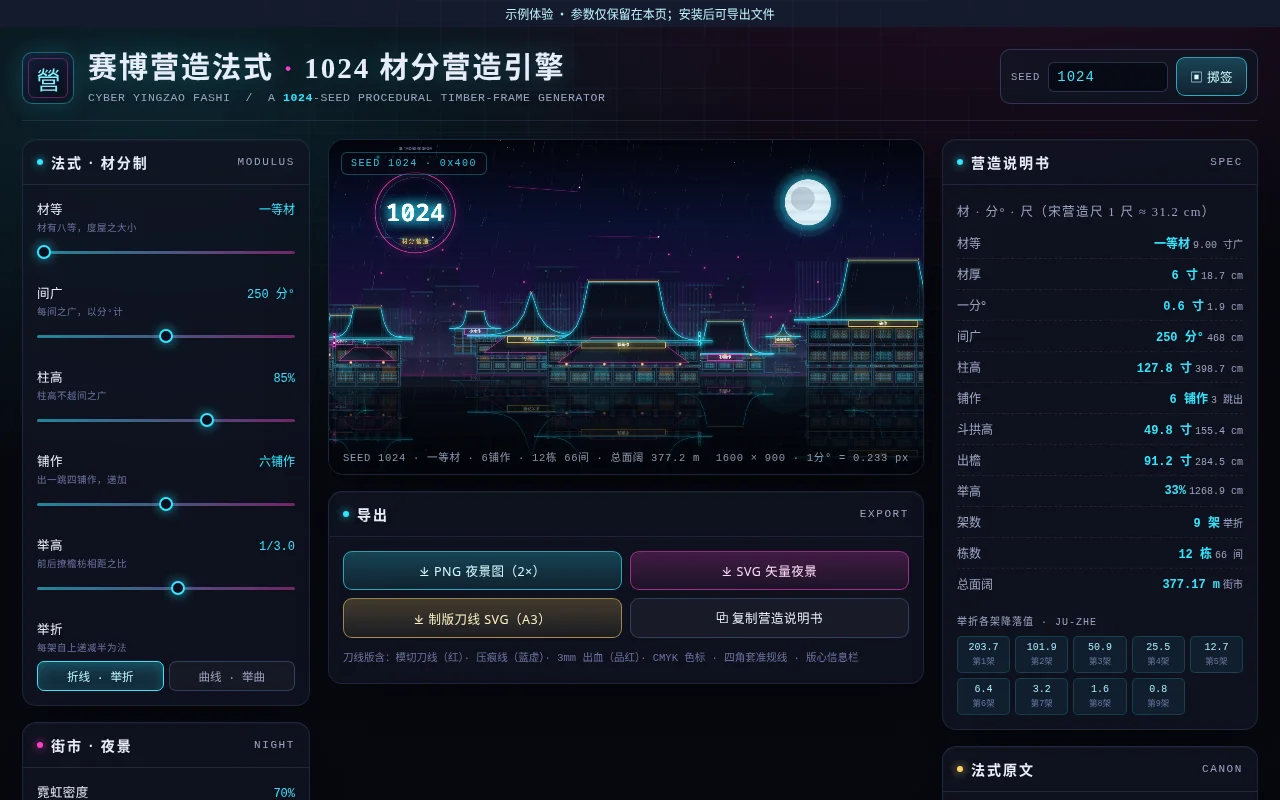
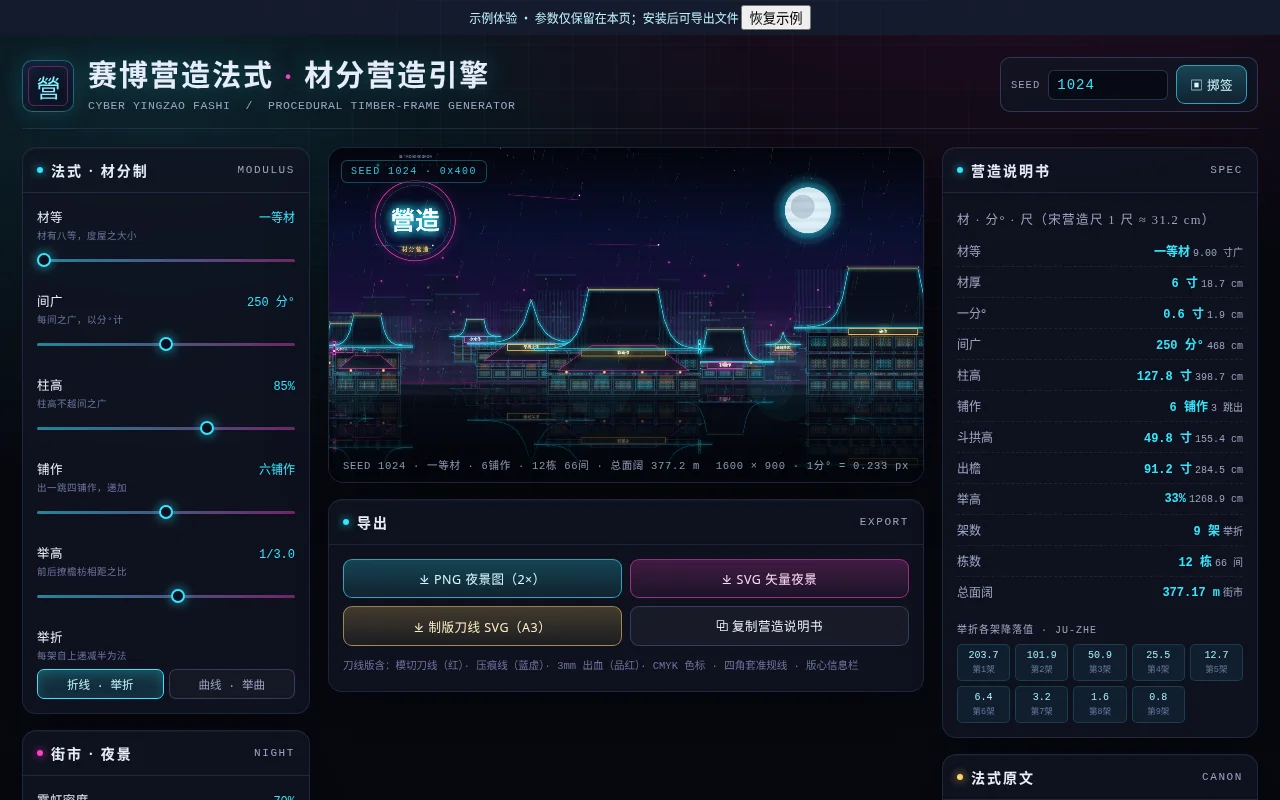
Remove event branding and correct reset state

diff --git a/ba7ad1e8d11afa5ff66995b0/app.js b/ba7ad1e8d11afa5ff66995b0/app.js
@@ -1,10 +1,10 @@
-document.title = "赛博营造法式 · 1024 材分营造引擎";
+document.title = "赛博营造法式 · 材分营造引擎";
 const style = document.createElement("style"); style.textContent = "\n:root{\n  --bg:#07080f;\n  --bg2:#0c0e1a;\n  --panel:rgba(16,19,34,.82);\n  --panel-2:rgba(22,26,44,.7);\n  --line:rgba(120,150,220,.16);\n  --line-2:rgba(120,150,220,.30);\n  --txt:#e8ecf8;\n  --txt-dim:#9aa4c4;\n  --txt-faint:#6b74a0;\n  --cyan:#31e6ff;\n  --magenta:#ff3ec8;\n  --gold:#ffd166;\n  --ink:#101426;\n  --mono:ui-monospace,\"SFMono-Regular\",\"JetBrains Mono\",\"Cascadia Mono\",Menlo,Consolas,\"Liberation Mono\",monospace;\n  --serif:\"Noto Serif SC\",\"Source Han Serif SC\",\"Songti SC\",\"STSong\",SimSun,\"Times New Roman\",serif;\n  --sans:\"PingFang SC\",\"Microsoft YaHei\",\"Hiragino Sans GB\",\"Noto Sans SC\",system-ui,-apple-system,\"Segoe UI\",sans-serif;\n}\n*{box-sizing:border-box}\nhtml,body{margin:0;padding:0}\nbody{\n  background:\n    radial-gradient(1200px 700px at 78% -10%,rgba(255,62,200,.13),transparent 60%),\n    radial-gradient(1000px 600px at 12% 8%,rgba(49,230,255,.12),transparent 62%),\n    var(--bg);\n  color:var(--txt);\n  font-family:var(--sans);\n  -webkit-font-smoothing:antialiased;\n  min-height:100vh;\n  overflow-x:hidden;\n}\nbody::before{\n  content:\"\";position:fixed;inset:0;pointer-events:none;z-index:0;\n  background-image:linear-gradient(rgba(120,160,255,.045) 1px,transparent 1px),linear-gradient(90deg,rgba(120,160,255,.045) 1px,transparent 1px);\n  background-size:44px 44px;\n  mask-image:radial-gradient(1000px 700px at 50% 30%,#000 20%,transparent 85%);\n}\n.app{position:relative;z-index:1;max-width:1680px;margin:0 auto;padding:22px 22px 40px}\n\n/* ---------- header ---------- */\n.topbar{display:flex;align-items:flex-end;gap:20px;flex-wrap:wrap;padding-bottom:16px;border-bottom:1px solid var(--line)}\n.brand{display:flex;align-items:center;gap:14px;min-width:0}\n.seal{\n  width:52px;height:52px;flex:none;border-radius:10px;position:relative;\n  background:linear-gradient(160deg,#141a33,#0a0d1a);\n  border:1px solid rgba(49,230,255,.4);\n  box-shadow:0 0 22px rgba(49,230,255,.18),inset 0 0 18px rgba(49,230,255,.08);\n  display:grid;place-items:center;font-family:var(--serif);font-size:24px;color:#7ff3ff;letter-spacing:-1px;\n}\n.seal::after{content:\"\";position:absolute;inset:5px;border:1px solid rgba(255,62,200,.35);border-radius:6px}\n.brand h1{\n  margin:0;font-family:var(--serif);font-size:clamp(20px,2.4vw,29px);font-weight:700;letter-spacing:2px;line-height:1.15;\n  text-shadow:0 0 26px rgba(49,230,255,.28);\n}\n.brand h1 em{font-style:normal;color:var(--magenta);text-shadow:0 0 22px rgba(255,62,200,.5)}\n.brand .sub{margin-top:5px;font-family:var(--mono);font-size:11.5px;color:var(--txt-dim);letter-spacing:.6px}\n.brand .sub b{color:var(--cyan);font-weight:600}\n.topbar .spacer{flex:1}\n.seedbox{display:flex;align-items:center;gap:8px;background:var(--panel);border:1px solid var(--line-2);border-radius:10px;padding:7px 10px}\n.seedbox label{font-family:var(--mono);font-size:10.5px;color:var(--txt-dim);letter-spacing:1px}\n.seedbox input{\n  width:120px;background:#070a14;border:1px solid var(--line-2);color:var(--cyan);\n  font-family:var(--mono);font-size:14px;padding:6px 8px;border-radius:6px;outline:none;letter-spacing:1px;\n}\n.seedbox input:focus{border-color:var(--cyan);box-shadow:0 0 0 3px rgba(49,230,255,.12)}\n\n/* ---------- layout ---------- */\n.main{display:grid;grid-template-columns:288px minmax(0,1fr) 316px;gap:18px;margin-top:18px;align-items:start}\n.panel{\n  background:var(--panel);border:1px solid var(--line);border-radius:14px;\n  backdrop-filter:blur(10px);-webkit-backdrop-filter:blur(10px);\n  box-shadow:0 18px 40px -28px rgba(0,0,0,.9),inset 0 1px 0 rgba(255,255,255,.04);\n  overflow:hidden;\n}\n.panel + .panel{margin-top:16px}\n.panel-h{\n  display:flex;align-items:center;gap:8px;padding:12px 14px;border-bottom:1px solid var(--line);\n  font-family:var(--mono);font-size:11px;letter-spacing:1.6px;color:var(--txt-dim);text-transform:uppercase;\n}\n.panel-h .zh{font-family:var(--serif);font-size:14px;letter-spacing:2px;color:var(--txt);text-transform:none;font-weight:700}\n.panel-h .dot{width:6px;height:6px;border-radius:50%;background:var(--cyan);box-shadow:0 0 10px var(--cyan);flex:none}\n.panel-b{padding:14px}\n\n/* ---------- controls ---------- */\n.ctl{margin-bottom:15px}\n.ctl:last-child{margin-bottom:0}\n.ctl .row{display:flex;justify-content:space-between;align-items:baseline;gap:8px;margin-bottom:7px}\n.ctl .nm{font-size:12.5px;color:var(--txt);letter-spacing:.4px}\n.ctl .nm small{display:block;font-family:var(--mono);font-size:9.5px;color:var(--txt-faint);letter-spacing:.5px;margin-top:2px}\n.ctl .vl{font-family:var(--mono);font-size:12px;color:var(--cyan);white-space:nowrap}\ninput[type=range]{\n  -webkit-appearance:none;appearance:none;width:100%;height:22px;background:transparent;outline:none;cursor:pointer;margin:0;\n}\ninput[type=range]::-webkit-slider-runnable-track{height:3px;border-radius:3px;background:linear-gradient(90deg,rgba(49,230,255,.55),rgba(255,62,200,.42))}\ninput[type=range]::-webkit-slider-thumb{\n  -webkit-appearance:none;width:14px;height:14px;border-radius:50%;margin-top:-5.5px;\n  background:#0b1020;border:2px solid var(--cyan);box-shadow:0 0 12px rgba(49,230,255,.7);transition:transform .12s;\n}\ninput[type=range]:active::-webkit-slider-thumb{transform:scale(1.22)}\ninput[type=range]::-moz-range-track{height:3px;border-radius:3px;background:rgba(49,230,255,.5)}\ninput[type=range]::-moz-range-thumb{width:12px;height:12px;border-radius:50%;background:#0b1020;border:2px solid var(--cyan);box-shadow:0 0 10px rgba(49,230,255,.6)}\n.seg{display:flex;gap:5px;flex-wrap:wrap}\n.seg button{\n  flex:1 1 auto;min-width:34px;padding:6px 4px;border-radius:7px;cursor:pointer;\n  background:rgba(255,255,255,.03);border:1px solid var(--line-2);color:var(--txt-dim);\n  font-family:var(--mono);font-size:11.5px;transition:all .15s;\n}\n.seg button:hover{border-color:rgba(49,230,255,.5);color:var(--txt)}\n.seg button.on{background:linear-gradient(180deg,rgba(49,230,255,.22),rgba(49,230,255,.07));border-color:var(--cyan);color:#bff6ff;box-shadow:0 0 14px rgba(49,230,255,.2) inset}\n.chips{display:grid;grid-template-columns:1fr 1fr;gap:6px}\n.chips button{\n  padding:7px 6px;border-radius:8px;cursor:pointer;text-align:left;\n  background:rgba(255,255,255,.03);border:1px solid var(--line-2);color:var(--txt-dim);\n  font-size:11.5px;transition:all .15s;font-family:var(--sans);\n}\n.chips button:hover{border-color:rgba(255,62,200,.45);color:var(--txt)}\n.chips button.on{border-color:var(--magenta);color:#ffd7f4;background:linear-gradient(180deg,rgba(255,62,200,.2),rgba(255,62,200,.05))}\n.chips button span{display:block;font-family:var(--mono);font-size:9px;opacity:.65;margin-top:2px}\n\n.btn{\n  display:inline-flex;align-items:center;justify-content:center;gap:7px;\n  padding:9px 13px;border-radius:9px;cursor:pointer;font-size:12.5px;letter-spacing:.5px;\n  background:rgba(255,255,255,.04);border:1px solid var(--line-2);color:var(--txt);\n  transition:all .15s;font-family:var(--sans);\n}\n.btn:hover{border-color:var(--cyan);color:#cffaff;box-shadow:0 0 16px -4px rgba(49,230,255,.5)}\n.btn.primary{background:linear-gradient(180deg,rgba(49,230,255,.24),rgba(49,230,255,.08));border-color:rgba(49,230,255,.65);color:#d6fbff}\n.btn.gold{background:linear-gradient(180deg,rgba(255,209,102,.22),rgba(255,209,102,.06));border-color:rgba(255,209,102,.55);color:#ffeec2}\n.btn.mag{background:linear-gradient(180deg,rgba(255,62,200,.22),rgba(255,62,200,.06));border-color:rgba(255,62,200,.55);color:#ffd9f4}\n.btn:active{transform:translateY(1px)}\n.btn:disabled{opacity:.45;cursor:not-allowed}\n.btns{display:grid;grid-template-columns:1fr 1fr;gap:8px}\n.btns .btn{width:100%}\n\n/* ---------- stage ---------- */\n.stage{\n  position:relative;border-radius:16px;overflow:hidden;\n  border:1px solid rgba(120,150,220,.22);\n  box-shadow:0 30px 70px -40px #000,0 0 0 1px rgba(0,0,0,.4) inset;\n  background:#05060c;\n}\n.stage canvas{display:block;width:100%;height:auto;aspect-ratio:16/9}\n.stage .hud{\n  position:absolute;left:0;right:0;bottom:0;display:flex;justify-content:space-between;align-items:center;gap:12px;\n  padding:10px 14px;font-family:var(--mono);font-size:10.5px;color:rgba(190,205,235,.72);letter-spacing:.7px;\n  background:linear-gradient(0deg,rgba(4,6,12,.86),transparent);pointer-events:none;\n}\n.stage .hud .r{display:flex;gap:14px;flex-wrap:wrap}\n.stage .badge{\n  position:absolute;top:12px;left:12px;font-family:var(--mono);font-size:10px;letter-spacing:1.4px;\n  color:rgba(49,230,255,.85);border:1px solid rgba(49,230,255,.3);background:rgba(6,10,20,.6);\n  padding:5px 9px;border-radius:6px;pointer-events:none;\n}\n.stage .loading{\n  position:absolute;inset:0;display:grid;place-items:center;background:rgba(5,6,12,.72);\n  font-family:var(--serif);letter-spacing:6px;color:#9ff0ff;font-size:15px;pointer-events:none;opacity:0;transition:opacity .25s;\n}\n.stage .loading.on{opacity:1}\n\n/* ---------- spec table ---------- */\n.spec{width:100%;border-collapse:collapse;font-size:12px}\n.spec caption{\n  caption-side:top;text-align:left;font-family:var(--serif);font-size:12.5px;letter-spacing:1.4px;\n  color:var(--txt-dim);padding:2px 0 8px;\n}\n.spec tr{border-bottom:1px dashed rgba(120,150,220,.13)}\n.spec tr:last-child{border-bottom:0}\n.spec th{\n  text-align:left;font-weight:400;color:var(--txt-dim);padding:6px 0;white-space:nowrap;\n}\n.spec td{text-align:right;font-family:var(--mono);color:var(--txt);padding:6px 0;white-space:nowrap}\n.spec td b{color:var(--cyan);font-weight:600}\n.spec td i{font-style:normal;color:var(--txt-dim);font-size:10px;margin-left:3px}\n.quote{\n  font-family:var(--serif);font-size:12px;line-height:1.85;color:#cbd4ef;\n  border-left:2px solid rgba(255,62,200,.5);padding:2px 0 2px 11px;margin:0;letter-spacing:.4px;\n}\n.quote b{color:var(--gold);font-weight:600}\n.jz{display:grid;grid-template-columns:repeat(auto-fill,minmax(52px,1fr));gap:5px;margin-top:8px}\n.jz div{\n  font-family:var(--mono);font-size:10px;text-align:center;padding:5px 2px;border-radius:5px;\n  background:rgba(49,230,255,.07);border:1px solid rgba(49,230,255,.16);color:#a9e9ff;\n}\n.jz div span{display:block;color:var(--txt-faint);font-size:8.5px;margin-top:1px}\n\n/* ---------- footer ---------- */\n.foot{\n  margin-top:20px;padding-top:16px;border-top:1px solid var(--line);\n  display:flex;justify-content:space-between;gap:16px;flex-wrap:wrap;\n  font-family:var(--mono);font-size:10.5px;color:var(--txt-faint);letter-spacing:.6px;line-height:1.9;\n}\n.foot b{color:var(--txt-dim);font-weight:500}\n.kbd{display:inline-block;padding:1px 6px;border:1px solid var(--line-2);border-radius:4px;color:var(--txt-dim);font-size:10px}\n\n/* ---------- toast ---------- */\n.toast{\n  position:fixed;left:50%;bottom:34px;transform:translate(-50%,20px);z-index:99;\n  background:rgba(10,14,26,.95);border:1px solid rgba(49,230,255,.4);color:#cffaff;\n  padding:11px 18px;border-radius:10px;font-size:12.5px;letter-spacing:.5px;\n  box-shadow:0 20px 40px -20px #000,0 0 24px -10px rgba(49,230,255,.6);\n  opacity:0;pointer-events:none;transition:all .28s cubic-bezier(.2,.8,.3,1);\n}\n.toast.on{opacity:1;transform:translate(-50%,0)}\n\n/* ---------- modal ---------- */\n.modal{\n  position:fixed;inset:0;z-index:120;display:none;place-items:center;padding:24px;\n  background:rgba(3,4,9,.78);backdrop-filter:blur(6px);-webkit-backdrop-filter:blur(6px);\n}\n.modal.on{display:grid}\n.modal .card{\n  width:min(720px,100%);max-height:82vh;overflow:auto;background:var(--bg2);\n  border:1px solid var(--line-2);border-radius:14px;padding:22px 24px;\n  box-shadow:0 40px 90px -40px #000;\n}\n.modal .card h3{margin:0 0 4px;font-family:var(--serif);font-size:19px;letter-spacing:2px}\n.modal .card .lead{margin:0 0 14px;font-family:var(--mono);font-size:11px;color:var(--txt-dim);letter-spacing:.8px}\n.modal .card h4{margin:18px 0 7px;font-family:var(--serif);font-size:14px;letter-spacing:1.5px;color:var(--cyan)}\n.modal .card p,.modal .card li{font-size:13px;line-height:1.95;color:#d3daf0;margin:6px 0}\n.modal .card ul{padding-left:19px;margin:6px 0}\n.modal .card code{font-family:var(--mono);font-size:11.5px;background:rgba(49,230,255,.09);padding:1px 5px;border-radius:4px;color:#9fe9ff}\n.modal .card .close{margin-top:20px;width:100%}\n\n@media (max-width:1240px){\n  .main{grid-template-columns:1fr}\n  .panel.side{max-width:none}\n  .stage{order:-1}\n  .chips{grid-template-columns:repeat(auto-fill,minmax(120px,1fr))}\n}\n@media (max-width:640px){\n  .app{padding:14px 12px 30px}\n  .main{gap:14px}\n  .btns{grid-template-columns:1fr}\n  .seal{width:44px;height:44px;font-size:20px}\n}\n"; document.head.appendChild(style);
-document.body.innerHTML = "\n<div class=\"app\">\n\n  <header class=\"topbar\">\n    <div class=\"brand\">\n      <div class=\"seal\">營</div>\n      <div>\n        <h1>赛博营造法式 <em>·</em> 1024 材分营造引擎</h1>\n        <div class=\"sub\">CYBER YINGZAO FASHI &nbsp;/&nbsp; A <b>1024</b>-SEED PROCEDURAL TIMBER-FRAME GENERATOR</div>\n      </div>\n    </div>\n    <div class=\"spacer\"></div>\n    <div class=\"seedbox\">\n      <label for=\"seed\">SEED</label>\n      <input id=\"seed\" inputmode=\"numeric\" spellcheck=\"false\" type=\"text\" value=\"1024\">\n      <button class=\"btn primary\" id=\"btn-dice\" title=\"换一个种子（空格键）\">▣ 掷签</button>\n    </div>\n  </header>\n\n  <div class=\"main\">\n\n    <!-- ================= 左：参数 ================= -->\n    <div class=\"side\">\n      <section class=\"panel\">\n        <div class=\"panel-h\"><span class=\"dot\"></span><span class=\"zh\">法式 · 材分制</span><span style=\"margin-left:auto\">MODULUS</span></div>\n        <div class=\"panel-b\">\n          <div class=\"ctl\">\n            <div class=\"row\"><div class=\"nm\">材等<small>材有八等，度屋之大小</small></div><div class=\"vl\" id=\"v-cai\">一等材</div></div>\n            <input id=\"r-cai\" max=\"8\" min=\"1\" step=\"1\" type=\"range\" value=\"1\">\n          </div>\n          <div class=\"ctl\">\n            <div class=\"row\"><div class=\"nm\">间广<small>每间之广，以分°计</small></div><div class=\"vl\" id=\"v-jian\">250 分°</div></div>\n            <input id=\"r-jian\" max=\"320\" min=\"180\" step=\"5\" type=\"range\" value=\"250\">\n          </div>\n          <div class=\"ctl\">\n            <div class=\"row\"><div class=\"nm\">柱高<small>柱高不越间之广</small></div><div class=\"vl\" id=\"v-col\">85%</div></div>\n            <input id=\"r-col\" max=\"100\" min=\"55\" step=\"1\" type=\"range\" value=\"85\">\n          </div>\n          <div class=\"ctl\">\n            <div class=\"row\"><div class=\"nm\">铺作<small>出一跳四铺作，递加</small></div><div class=\"vl\" id=\"v-pu\">六铺作</div></div>\n            <input id=\"r-pu\" max=\"8\" min=\"4\" step=\"1\" type=\"range\" value=\"6\">\n          </div>\n          <div class=\"ctl\">\n            <div class=\"row\"><div class=\"nm\">举高<small>前后撩檐枋相距之比</small></div><div class=\"vl\" id=\"v-ju\">1/3</div></div>\n            <input id=\"r-ju\" max=\"42\" min=\"22\" step=\"1\" type=\"range\" value=\"33\">\n          </div>\n          <div class=\"ctl\">\n            <div class=\"row\"><div class=\"nm\">举折<small>每架自上递减半为法</small></div></div>\n            <div class=\"seg\" id=\"seg-smooth\">\n              <button class=\"on\" data-v=\"0\">折线 · 举折</button>\n              <button data-v=\"1\">曲线 · 举曲</button>\n            </div>\n          </div>\n        </div>\n      </section>\n\n      <section class=\"panel\">\n        <div class=\"panel-h\"><span class=\"dot\" style=\"background:var(--magenta); box-shadow:0 0 10px var(--magenta)\"></span><span class=\"zh\">街市 · 夜景</span><span style=\"margin-left:auto\">NIGHT</span></div>\n        <div class=\"panel-b\">\n          <div class=\"ctl\">\n            <div class=\"row\"><div class=\"nm\">霓虹密度</div><div class=\"vl\" id=\"v-neon\">70%</div></div>\n            <input id=\"r-neon\" max=\"100\" min=\"0\" step=\"1\" type=\"range\" value=\"70\">\n          </div>\n          <div class=\"ctl\">\n            <div class=\"row\"><div class=\"nm\">雨</div><div class=\"vl\" id=\"v-rain\">55%</div></div>\n            <input id=\"r-rain\" max=\"100\" min=\"0\" step=\"1\" type=\"range\" value=\"55\">\n          </div>\n          <div class=\"ctl\">\n            <div class=\"row\"><div class=\"nm\">雾气</div><div class=\"vl\" id=\"v-fog\">45%</div></div>\n            <input id=\"r-fog\" max=\"100\" min=\"0\" step=\"1\" type=\"range\" value=\"45\">\n          </div>\n          <div class=\"ctl\">\n            <div class=\"row\"><div class=\"nm\">地面积水反射</div><div class=\"vl\" id=\"v-refl\">60%</div></div>\n            <input id=\"r-refl\" max=\"100\" min=\"0\" step=\"1\" type=\"range\" value=\"60\">\n          </div>\n          <div class=\"ctl\">\n            <div class=\"row\"><div class=\"nm\">色调</div></div>\n            <div class=\"chips\" id=\"chips-pal\"></div>\n          </div>\n        </div>\n      </section>\n    </div>\n\n    <!-- ================= 中：画布 ================= -->\n    <div>\n      <div class=\"stage\">\n        <div class=\"badge\" id=\"badge\">SEED 1024 · 0x400</div>\n        <canvas height=\"900\" id=\"cv\" width=\"1600\"></canvas>\n        <div class=\"loading\" id=\"loading\">營 造 中</div>\n        <div class=\"hud\">\n          <div class=\"r\">\n            <span id=\"hud-l\">— 营造说明 —</span>\n          </div>\n          <div class=\"r\">\n            <span id=\"hud-r\">1600 × 900</span>\n          </div>\n        </div>\n      </div>\n\n      <section class=\"panel\" style=\"margin-top:16px\">\n        <div class=\"panel-h\"><span class=\"dot\"></span><span class=\"zh\">导出</span><span style=\"margin-left:auto\">EXPORT</span></div>\n        <div class=\"panel-b\">\n          <div class=\"btns\">\n            <button class=\"btn primary\" id=\"btn-png\">⤓ PNG 夜景图（2×）</button>\n            <button class=\"btn mag\" id=\"btn-svg\">⤓ SVG 矢量夜景</button>\n            <button class=\"btn gold\" id=\"btn-die\">⤓ 制版刀线 SVG（A3）</button>\n            <button class=\"btn\" id=\"btn-copy\">⧉ 复制营造说明书</button>\n          </div>\n          <div style=\"margin-top:11px; font-family:var(--mono); font-size:10.5px; color:var(--txt-faint); line-height:1.85\">\n            刀线版含：模切刀线（红）· 压痕线（蓝虚）· 3mm 出血（品红）· CMYK 色标 · 四角套准规线 · 版心信息栏\n          </div>\n        </div>\n      </section>\n    </div>\n\n    <!-- ================= 右：营造说明 ================= -->\n    <div class=\"side\">\n      <section class=\"panel\">\n        <div class=\"panel-h\"><span class=\"dot\"></span><span class=\"zh\">营造说明书</span><span style=\"margin-left:auto\">SPEC</span></div>\n        <div class=\"panel-b\">\n          <table class=\"spec\">\n            <caption>材 · 分° · 尺（宋营造尺 1 尺 ≈ 31.2 cm）</caption>\n            <tbody id=\"spec-body\"></tbody>\n          </table>\n          <div style=\"margin-top:14px\">\n            <div style=\"font-family:var(--mono); font-size:10px; color:var(--txt-dim); letter-spacing:1px; margin-bottom:6px\">举折各架降落值 · JU-ZHE</div>\n            <div class=\"jz\" id=\"jz\"></div>\n          </div>\n        </div>\n      </section>\n\n      <section class=\"panel\">\n        <div class=\"panel-h\"><span class=\"dot\" style=\"background:var(--gold); box-shadow:0 0 10px var(--gold)\"></span><span class=\"zh\">法式原文</span><span style=\"margin-left:auto\">CANON</span></div>\n        <div class=\"panel-b\">\n          <p class=\"quote\" id=\"quote\"></p>\n          <div class=\"btns\" style=\"margin-top:14px\">\n            <button class=\"btn\" id=\"btn-about\">✦ 作品说明</button>\n            <button class=\"btn\" id=\"btn-reset\">↺ 复原初始值</button>\n          </div>\n        </div>\n      </section>\n    </div>\n\n  </div>\n\n  <footer class=\"foot\">\n    <div>\n      <b>赛博营造法式 · 1024 材分营造引擎</b> &nbsp;— 以宋《营造法式》材分制为生成规则的程序化营造引擎<br>\n      快捷键：<span class=\"kbd\">空格</span> 掷签换种子 &nbsp;·&nbsp; <span class=\"kbd\">S</span> 存 PNG &nbsp;·&nbsp; <span class=\"kbd\">V</span> 存 SVG &nbsp;·&nbsp; <span class=\"kbd\">D</span> 出刀线版\n    </div>\n    <div style=\"text-align:right\">\n      单文件 · 零依赖 · 无外部资源 &nbsp;|&nbsp; 同一 SEED 恒定复现<br>\n      \n    </div>\n  </footer>\n</div>\n\n<div class=\"toast\" id=\"toast\"></div>\n\n<div class=\"modal\" id=\"modal\">\n  <div class=\"card\">\n    <h3>赛博营造法式 · 1024 材分营造引擎</h3>\n    <p class=\"lead\">CYBER YINGZAO FASHI — 以《营造法式》为规则的程序化营造引擎</p>\n\n    <h4>一、它是什么</h4>\n    <p>一个纯前端、零依赖的单文件应用。它不做\"国风滤镜\"，而是把北宋《营造法式》里真实存在的<b>模数体系</b>——材分八等、分°、铺作出跳、举折之法——直接写成生成规则，用一个种子（默认是 1024）确定性地推演出一整条赛博朋克霓虹夜景下的中式街市。</p>\n\n    <h4>二、生成规则来自真实的法式</h4>\n    <ul>\n      <li><b>材分八等</b>：「凡构屋之制，皆以材为祖。」材广十五分°、厚十分°；一等材广九寸厚六寸，八等材广四寸五分厚三寸。选哪一等，整条街的尺度随之等比缩放。</li>\n      <li><b>间广与柱高</b>：间广以分°计（默认二百五十分°）；「柱高不越间之广」，柱高按比例取间广的若干成。</li>\n      <li><b>铺作出跳</b>：出一跳谓之四铺作，出两跳五铺作……至八铺作。每跳向外三十分°、向高一材一栔（二十一分°），斗、拱、昂、耍头逐层累叠。</li>\n      <li><b>举折之法</b>：「以举高尺丈，每尺折一寸，每架自上递减半为法。」举高取前后撩檐枋相距的三分之一（可调），再自上而下逐架减半降落，归一化后得屋面折线——这正是中国屋顶\"反宇向阳\"那条凹曲线的数学来源。</li>\n      <li><b>窗棂样式</b>：步步锦、灯笼锦、冰裂纹（递归凸多边形半平面切分生成）。</li>\n    </ul>\n\n    <h4>三、技术要点</h4>\n    <ul>\n      <li><b>确定性生成</b>：mulberry32 伪随机数发生器，一种子一世界，<code>SEED 1024</code> 永远生成同一条街；每个建筑由种子派生子种子，互不干扰。</li>\n      <li><b>双渲染后端</b>：所有几何先编译成一份绘制指令流（DrawList），Canvas 2D 负责实时渲染与\"自下而上生长\"的营造动画，SVG 后端负责矢量导出——同一份几何，两种输出，像素与矢量严格一致。</li>\n      <li><b>真实湿地面反射</b>：建筑指令流整体做镜像变换重绘，叠加波纹扰动与纵向衰减遮罩。</li>\n      <li><b>刀线制版输出</b>：自动提取每栋楼的立面轮廓多边形，做多边形外扩求交得到 3mm 出血，按 A3 版面（420 × 297 mm）排出模切刀线、压痕线、CMYK 色标、四角套准规线与版心信息栏，输出可直接送厂的 SVG。</li>\n    </ul>\n\n    <h4>四、为什么它是\"造物\"而不只是一张图</h4>\n    <p>它输出的不是一张截图，而是<b>三样能继续往下走的东西</b>：一张 2× 分辨率的夜景图、一份可无限放大的矢量文件、以及一份能拿去印刷厂做实体包装盒的制版刀线。屏幕上的楼，可以被真正地造出来。</p>\n\n    <h4>五、如何使用</h4>\n    <ul>\n      <li>拖动左侧滑块调整材等、间广、柱高、铺作、举高，右侧\"营造说明书\"实时给出对应的宋尺换算与各架举折降落值。</li>\n      <li>按 <code>空格</code> 或点\"掷签\"换种子，整条街重新生成。</li>\n      <li><code>S</code> 存 PNG、<code>V</code> 存 SVG、<code>D</code> 出刀线版。</li>\n    </ul>\n\n    <button class=\"btn primary close\" id=\"modal-close\">知道了，开始营造</button>\n  </div>\n</div>\n\n";
+document.body.innerHTML = "\n<div class=\"app\">\n\n  <header class=\"topbar\">\n    <div class=\"brand\">\n      <div class=\"seal\">營</div>\n      <div>\n        <h1>赛博营造法式 <em>·</em> 材分营造引擎</h1>\n        <div class=\"sub\">CYBER YINGZAO FASHI &nbsp;/&nbsp; PROCEDURAL TIMBER-FRAME GENERATOR</div>\n      </div>\n    </div>\n    <div class=\"spacer\"></div>\n    <div class=\"seedbox\">\n      <label for=\"seed\">SEED</label>\n      <input id=\"seed\" inputmode=\"numeric\" spellcheck=\"false\" type=\"text\" value=\"1024\">\n      <button class=\"btn primary\" id=\"btn-dice\" title=\"换一个种子（空格键）\">▣ 掷签</button>\n    </div>\n  </header>\n\n  <div class=\"main\">\n\n    <!-- ================= 左：参数 ================= -->\n    <div class=\"side\">\n      <section class=\"panel\">\n        <div class=\"panel-h\"><span class=\"dot\"></span><span class=\"zh\">法式 · 材分制</span><span style=\"margin-left:auto\">MODULUS</span></div>\n        <div class=\"panel-b\">\n          <div class=\"ctl\">\n            <div class=\"row\"><div class=\"nm\">材等<small>材有八等，度屋之大小</small></div><div class=\"vl\" id=\"v-cai\">一等材</div></div>\n            <input id=\"r-cai\" max=\"8\" min=\"1\" step=\"1\" type=\"range\" value=\"1\">\n          </div>\n          <div class=\"ctl\">\n            <div class=\"row\"><div class=\"nm\">间广<small>每间之广，以分°计</small></div><div class=\"vl\" id=\"v-jian\">250 分°</div></div>\n            <input id=\"r-jian\" max=\"320\" min=\"180\" step=\"5\" type=\"range\" value=\"250\">\n          </div>\n          <div class=\"ctl\">\n            <div class=\"row\"><div class=\"nm\">柱高<small>柱高不越间之广</small></div><div class=\"vl\" id=\"v-col\">85%</div></div>\n            <input id=\"r-col\" max=\"100\" min=\"55\" step=\"1\" type=\"range\" value=\"85\">\n          </div>\n          <div class=\"ctl\">\n            <div class=\"row\"><div class=\"nm\">铺作<small>出一跳四铺作，递加</small></div><div class=\"vl\" id=\"v-pu\">六铺作</div></div>\n            <input id=\"r-pu\" max=\"8\" min=\"4\" step=\"1\" type=\"range\" value=\"6\">\n          </div>\n          <div class=\"ctl\">\n            <div class=\"row\"><div class=\"nm\">举高<small>前后撩檐枋相距之比</small></div><div class=\"vl\" id=\"v-ju\">1/3</div></div>\n            <input id=\"r-ju\" max=\"42\" min=\"22\" step=\"1\" type=\"range\" value=\"33\">\n          </div>\n          <div class=\"ctl\">\n            <div class=\"row\"><div class=\"nm\">举折<small>每架自上递减半为法</small></div></div>\n            <div class=\"seg\" id=\"seg-smooth\">\n              <button class=\"on\" data-v=\"0\">折线 · 举折</button>\n              <button data-v=\"1\">曲线 · 举曲</button>\n            </div>\n          </div>\n        </div>\n      </section>\n\n      <section class=\"panel\">\n        <div class=\"panel-h\"><span class=\"dot\" style=\"background:var(--magenta); box-shadow:0 0 10px var(--magenta)\"></span><span class=\"zh\">街市 · 夜景</span><span style=\"margin-left:auto\">NIGHT</span></div>\n        <div class=\"panel-b\">\n          <div class=\"ctl\">\n            <div class=\"row\"><div class=\"nm\">霓虹密度</div><div class=\"vl\" id=\"v-neon\">70%</div></div>\n            <input id=\"r-neon\" max=\"100\" min=\"0\" step=\"1\" type=\"range\" value=\"70\">\n          </div>\n          <div class=\"ctl\">\n            <div class=\"row\"><div class=\"nm\">雨</div><div class=\"vl\" id=\"v-rain\">55%</div></div>\n            <input id=\"r-rain\" max=\"100\" min=\"0\" step=\"1\" type=\"range\" value=\"55\">\n          </div>\n          <div class=\"ctl\">\n            <div class=\"row\"><div class=\"nm\">雾气</div><div class=\"vl\" id=\"v-fog\">45%</div></div>\n            <input id=\"r-fog\" max=\"100\" min=\"0\" step=\"1\" type=\"range\" value=\"45\">\n          </div>\n          <div class=\"ctl\">\n            <div class=\"row\"><div class=\"nm\">地面积水反射</div><div class=\"vl\" id=\"v-refl\">60%</div></div>\n            <input id=\"r-refl\" max=\"100\" min=\"0\" step=\"1\" type=\"range\" value=\"60\">\n          </div>\n          <div class=\"ctl\">\n            <div class=\"row\"><div class=\"nm\">色调</div></div>\n            <div class=\"chips\" id=\"chips-pal\"></div>\n          </div>\n        </div>\n      </section>\n    </div>\n\n    <!-- ================= 中：画布 ================= -->\n    <div>\n      <div class=\"stage\">\n        <div class=\"badge\" id=\"badge\">SEED 1024 · 0x400</div>\n        <canvas height=\"900\" id=\"cv\" width=\"1600\"></canvas>\n        <div class=\"loading\" id=\"loading\">營 造 中</div>\n        <div class=\"hud\">\n          <div class=\"r\">\n            <span id=\"hud-l\">— 营造说明 —</span>\n          </div>\n          <div class=\"r\">\n            <span id=\"hud-r\">1600 × 900</span>\n          </div>\n        </div>\n      </div>\n\n      <section class=\"panel\" style=\"margin-top:16px\">\n        <div class=\"panel-h\"><span class=\"dot\"></span><span class=\"zh\">导出</span><span style=\"margin-left:auto\">EXPORT</span></div>\n        <div class=\"panel-b\">\n          <div class=\"btns\">\n            <button class=\"btn primary\" id=\"btn-png\">⤓ PNG 夜景图（2×）</button>\n            <button class=\"btn mag\" id=\"btn-svg\">⤓ SVG 矢量夜景</button>\n            <button class=\"btn gold\" id=\"btn-die\">⤓ 制版刀线 SVG（A3）</button>\n            <button class=\"btn\" id=\"btn-copy\">⧉ 复制营造说明书</button>\n          </div>\n          <div style=\"margin-top:11px; font-family:var(--mono); font-size:10.5px; color:var(--txt-faint); line-height:1.85\">\n            刀线版含：模切刀线（红）· 压痕线（蓝虚）· 3mm 出血（品红）· CMYK 色标 · 四角套准规线 · 版心信息栏\n          </div>\n        </div>\n      </section>\n    </div>\n\n    <!-- ================= 右：营造说明 ================= -->\n    <div class=\"side\">\n      <section class=\"panel\">\n        <div class=\"panel-h\"><span class=\"dot\"></span><span class=\"zh\">营造说明书</span><span style=\"margin-left:auto\">SPEC</span></div>\n        <div class=\"panel-b\">\n          <table class=\"spec\">\n            <caption>材 · 分° · 尺（宋营造尺 1 尺 ≈ 31.2 cm）</caption>\n            <tbody id=\"spec-body\"></tbody>\n          </table>\n          <div style=\"margin-top:14px\">\n            <div style=\"font-family:var(--mono); font-size:10px; color:var(--txt-dim); letter-spacing:1px; margin-bottom:6px\">举折各架降落值 · JU-ZHE</div>\n            <div class=\"jz\" id=\"jz\"></div>\n          </div>\n        </div>\n      </section>\n\n      <section class=\"panel\">\n        <div class=\"panel-h\"><span class=\"dot\" style=\"background:var(--gold); box-shadow:0 0 10px var(--gold)\"></span><span class=\"zh\">法式原文</span><span style=\"margin-left:auto\">CANON</span></div>\n        <div class=\"panel-b\">\n          <p class=\"quote\" id=\"quote\"></p>\n          <div class=\"btns\" style=\"margin-top:14px\">\n            <button class=\"btn\" id=\"btn-about\">✦ 作品说明</button>\n            <button class=\"btn\" id=\"btn-reset\">↺ 复原初始值</button>\n          </div>\n        </div>\n      </section>\n    </div>\n\n  </div>\n\n  <footer class=\"foot\">\n    <div>\n      <b>赛博营造法式 · 材分营造引擎</b> &nbsp;— 以宋《营造法式》材分制为生成规则的程序化营造引擎<br>\n      快捷键：<span class=\"kbd\">空格</span> 掷签换种子 &nbsp;·&nbsp; <span class=\"kbd\">S</span> 存 PNG &nbsp;·&nbsp; <span class=\"kbd\">V</span> 存 SVG &nbsp;·&nbsp; <span class=\"kbd\">D</span> 出刀线版\n    </div>\n    <div style=\"text-align:right\">\n      单文件 · 零依赖 · 无外部资源 &nbsp;|&nbsp; 同一 SEED 恒定复现<br>\n      \n    </div>\n  </footer>\n</div>\n\n<div class=\"toast\" id=\"toast\"></div>\n\n<div class=\"modal\" id=\"modal\">\n  <div class=\"card\">\n    <h3>赛博营造法式 · 材分营造引擎</h3>\n    <p class=\"lead\">CYBER YINGZAO FASHI — 以《营造法式》为规则的程序化营造引擎</p>\n\n    <h4>一、它是什么</h4>\n    <p>一个纯前端、零依赖的单文件应用。它不做\"国风滤镜\"，而是把北宋《营造法式》里真实存在的<b>模数体系</b>——材分八等、分°、铺作出跳、举折之法——直接写成生成规则，用一个种子（默认是 1024）确定性地推演出一整条赛博朋克霓虹夜景下的中式街市。</p>\n\n    <h4>二、生成规则来自真实的法式</h4>\n    <ul>\n      <li><b>材分八等</b>：「凡构屋之制，皆以材为祖。」材广十五分°、厚十分°；一等材广九寸厚六寸，八等材广四寸五分厚三寸。选哪一等，整条街的尺度随之等比缩放。</li>\n      <li><b>间广与柱高</b>：间广以分°计（默认二百五十分°）；「柱高不越间之广」，柱高按比例取间广的若干成。</li>\n      <li><b>铺作出跳</b>：出一跳谓之四铺作，出两跳五铺作……至八铺作。每跳向外三十分°、向高一材一栔（二十一分°），斗、拱、昂、耍头逐层累叠。</li>\n      <li><b>举折之法</b>：「以举高尺丈，每尺折一寸，每架自上递减半为法。」举高取前后撩檐枋相距的三分之一（可调），再自上而下逐架减半降落，归一化后得屋面折线——这正是中国屋顶\"反宇向阳\"那条凹曲线的数学来源。</li>\n      <li><b>窗棂样式</b>：步步锦、灯笼锦、冰裂纹（递归凸多边形半平面切分生成）。</li>\n    </ul>\n\n    <h4>三、技术要点</h4>\n    <ul>\n      <li><b>确定性生成</b>：mulberry32 伪随机数发生器，一种子一世界，<code>SEED 1024</code> 永远生成同一条街；每个建筑由种子派生子种子，互不干扰。</li>\n      <li><b>双渲染后端</b>：所有几何先编译成一份绘制指令流（DrawList），Canvas 2D 负责实时渲染与\"自下而上生长\"的营造动画，SVG 后端负责矢量导出——同一份几何，两种输出，像素与矢量严格一致。</li>\n      <li><b>真实湿地面反射</b>：建筑指令流整体做镜像变换重绘，叠加波纹扰动与纵向衰减遮罩。</li>\n      <li><b>刀线制版输出</b>：自动提取每栋楼的立面轮廓多边形，做多边形外扩求交得到 3mm 出血，按 A3 版面（420 × 297 mm）排出模切刀线、压痕线、CMYK 色标、四角套准规线与版心信息栏，输出可直接送厂的 SVG。</li>\n    </ul>\n\n    <h4>四、为什么它是\"造物\"而不只是一张图</h4>\n    <p>它输出的不是一张截图，而是<b>三样能继续往下走的东西</b>：一张 2× 分辨率的夜景图、一份可无限放大的矢量文件、以及一份能拿去印刷厂做实体包装盒的制版刀线。屏幕上的楼，可以被真正地造出来。</p>\n\n    <h4>五、如何使用</h4>\n    <ul>\n      <li>拖动左侧滑块调整材等、间广、柱高、铺作、举高，右侧\"营造说明书\"实时给出对应的宋尺换算与各架举折降落值。</li>\n      <li>按 <code>空格</code> 或点\"掷签\"换种子，整条街重新生成。</li>\n      <li><code>S</code> 存 PNG、<code>V</code> 存 SVG、<code>D</code> 出刀线版。</li>\n    </ul>\n\n    <button class=\"btn primary close\" id=\"modal-close\">知道了，开始营造</button>\n  </div>\n</div>\n\n";
 
 "use strict";
 /* =========================================================================
-   赛博营造法式 · 1024 材分营造引擎
+   赛博营造法式 · 材分营造引擎
    Cyber Yingzao Fashi — procedural generator driven by the Song dynasty
    "Yingzao Fashi" (Treatise on Architectural Methods) modulus system.
    Single file, zero dependencies, no external resources.
@@ -326,7 +326,7 @@ const SIGN_WORDS = ["云栈", "算力", "青瓷", "丹炉", "栈溢", "星槎", 
   "太极", "天工", "开物", "数术", "钧窑", "广寒", "流觞", "河图", "洛书", "九章",
   "营造", "材分", "铺作", "举折", "斗拱", "鸱吻", "藻井", "月洞", "听雨", "衔芳",
   "字节", "芯驿", "递归", "编译", "太极", "玄珠", "镜花", "拾遗", "不夜", "长明"];
-const BANNER_WORDS = ["材分营造", "1024 铺作", "举折之法", "反宇向阳", "不夜天工", "递归营造",
+const BANNER_WORDS = ["材分营造", "材分铺作", "举折之法", "反宇向阳", "不夜天工", "递归营造",
   "大木作", "小木作", "雕作", "彩画作", "窑作", "砖作"];
 
 /* ================================================================ SCENE */
@@ -424,17 +424,17 @@ function buildScene(P, progress) {
   dl.circle(moonX, moonY, moonR, { fill: "#f2f7ff", alpha: 0.9, glow: pal.n1, blur: 44 });
   dl.circle(moonX - 14, moonY - 10, moonR * 0.52, { fill: pal.sky[1], alpha: 0.16 });
 
-  // 1024 霓虹装置：月洞门造型 + 二进制星阵
+  // 营造霓虹装置：月洞门造型 + 二进制星阵
   const devX = 232, devY = 196, devR = 108;
   dl.circle(devX, devY, devR, { stroke: pal.n2, lw: 2.4, alpha: 0.5, glow: pal.n2, blur: 26 });
   dl.circle(devX, devY, devR - 13, { stroke: pal.n1, lw: 1.1, alpha: 0.35 });
-  dl.text("1024", devX, devY + 4, {
+  dl.text("營造", devX, devY + 4, {
     size: 66, family: "monospace", fill: "#ffffff", glow: pal.n1, blur: 30, weight: 700, alpha: 0.96
   });
   dl.text("材 分 营 造", devX, devY + 78, {
     size: 15, family: "serif", fill: pal.n3, glow: pal.n3, blur: 16, alpha: 0.82
   });
-  // 1024 = 0b10000000000 —— 十一位二进制星阵
+  // 十一位二进制星阵
   for (let i = 0; i < 11; i++) {
     const bx = devX - 100 + i * 20, by = devY - 150;
     const on = (i === 0);
@@ -1423,6 +1423,7 @@ $("btn-reset").addEventListener("click", function () {
   ["r-cai", "r-jian", "r-col", "r-pu", "r-ju", "r-neon", "r-rain", "r-fog", "r-refl"].forEach(function (id) {
     $(id).dispatchEvent(new Event("input"));
   });
+  [].forEach.call($("seg-smooth").querySelectorAll("button"), function (x) { x.classList.toggle("on", Number(x.dataset.v) === state.smooth); });
   [].forEach.call(palWrap.querySelectorAll("button"), function (x, i) { x.classList.toggle("on", PALETTES[i].id === state.pal); });
   animate();
   toast("已复原初始值");

diff --git a/ba7ad1e8d11afa5ff66995b0/showcase/preview.html b/ba7ad1e8d11afa5ff66995b0/showcase/preview.html
@@ -3,7 +3,7 @@
 <head>
 <meta charset="UTF-8">
 <meta content="width=device-width,initial-scale=1,viewport-fit=cover" name="viewport">
-<title>赛博营造法式 · 1024 材分营造引擎</title>
+<title>赛博营造法式 · 材分营造引擎</title>
 <meta content="以宋《营造法式》材分制模数为规则的程序化生成引擎：确定性种子驱动的赛博朋克霓虹中式街区，可导出矢量夜景与可制版刀线图。" name="description">
 <style>
 :root{
@@ -250,8 +250,8 @@ input[type=range]::-moz-range-thumb{width:12px;height:12px;border-radius:50%;bac
     <div class="brand">
       <div class="seal">營</div>
       <div>
-        <h1>赛博营造法式 <em>·</em> 1024 材分营造引擎</h1>
-        <div class="sub">CYBER YINGZAO FASHI &nbsp;/&nbsp; A <b>1024</b>-SEED PROCEDURAL TIMBER-FRAME GENERATOR</div>
+        <h1>赛博营造法式 <em>·</em> 材分营造引擎</h1>
+        <div class="sub">CYBER YINGZAO FASHI &nbsp;/&nbsp; PROCEDURAL TIMBER-FRAME GENERATOR</div>
       </div>
     </div>
     <div class="spacer"></div>
@@ -390,7 +390,7 @@ input[type=range]::-moz-range-thumb{width:12px;height:12px;border-radius:50%;bac
 
   <footer class="foot">
     <div>
-      <b>赛博营造法式 · 1024 材分营造引擎</b> &nbsp;— 以宋《营造法式》材分制为生成规则的程序化营造引擎<br>
+      <b>赛博营造法式 · 材分营造引擎</b> &nbsp;— 以宋《营造法式》材分制为生成规则的程序化营造引擎<br>
       快捷键：<span class="kbd">空格</span> 掷签换种子 &nbsp;·&nbsp; <span class="kbd">S</span> 存 PNG &nbsp;·&nbsp; <span class="kbd">V</span> 存 SVG &nbsp;·&nbsp; <span class="kbd">D</span> 出刀线版
     </div>
     <div style="text-align:right">
@@ -404,7 +404,7 @@ input[type=range]::-moz-range-thumb{width:12px;height:12px;border-radius:50%;bac
 
 <div class="modal" id="modal">
   <div class="card">
-    <h3>赛博营造法式 · 1024 材分营造引擎</h3>
+    <h3>赛博营造法式 · 材分营造引擎</h3>
     <p class="lead">CYBER YINGZAO FASHI — 以《营造法式》为规则的程序化营造引擎</p>
 
     <h4>一、它是什么</h4>
@@ -444,7 +444,7 @@ input[type=range]::-moz-range-thumb{width:12px;height:12px;border-radius:50%;bac
 <script>
 "use strict";
 /* =========================================================================
-   赛博营造法式 · 1024 材分营造引擎
+   赛博营造法式 · 材分营造引擎
    Cyber Yingzao Fashi — procedural generator driven by the Song dynasty
    "Yingzao Fashi" (Treatise on Architectural Methods) modulus system.
    Single file, zero dependencies, no external resources.
@@ -766,7 +766,7 @@ const SIGN_WORDS = ["云栈", "算力", "青瓷", "丹炉", "栈溢", "星槎", 
   "太极", "天工", "开物", "数术", "钧窑", "广寒", "流觞", "河图", "洛书", "九章",
   "营造", "材分", "铺作", "举折", "斗拱", "鸱吻", "藻井", "月洞", "听雨", "衔芳",
   "字节", "芯驿", "递归", "编译", "太极", "玄珠", "镜花", "拾遗", "不夜", "长明"];
-const BANNER_WORDS = ["材分营造", "1024 铺作", "举折之法", "反宇向阳", "不夜天工", "递归营造",
+const BANNER_WORDS = ["材分营造", "材分铺作", "举折之法", "反宇向阳", "不夜天工", "递归营造",
   "大木作", "小木作", "雕作", "彩画作", "窑作", "砖作"];
 
 /* ================================================================ SCENE */
@@ -864,17 +864,17 @@ function buildScene(P, progress) {
   dl.circle(moonX, moonY, moonR, { fill: "#f2f7ff", alpha: 0.9, glow: pal.n1, blur: 44 });
   dl.circle(moonX - 14, moonY - 10, moonR * 0.52, { fill: pal.sky[1], alpha: 0.16 });
 
-  // 1024 霓虹装置：月洞门造型 + 二进制星阵
+  // 营造霓虹装置：月洞门造型 + 二进制星阵
   const devX = 232, devY = 196, devR = 108;
   dl.circle(devX, devY, devR, { stroke: pal.n2, lw: 2.4, alpha: 0.5, glow: pal.n2, blur: 26 });
   dl.circle(devX, devY, devR - 13, { stroke: pal.n1, lw: 1.1, alpha: 0.35 });
-  dl.text("1024", devX, devY + 4, {
+  dl.text("營造", devX, devY + 4, {
     size: 66, family: "monospace", fill: "#ffffff", glow: pal.n1, blur: 30, weight: 700, alpha: 0.96
   });
   dl.text("材 分 营 造", devX, devY + 78, {
     size: 15, family: "serif", fill: pal.n3, glow: pal.n3, blur: 16, alpha: 0.82
   });
-  // 1024 = 0b10000000000 —— 十一位二进制星阵
+  // 十一位二进制星阵
   for (let i = 0; i < 11; i++) {
     const bx = devX - 100 + i * 20, by = devY - 150;
     const on = (i === 0);
@@ -1863,6 +1863,7 @@ $("btn-reset").addEventListener("click", function () {
   ["r-cai", "r-jian", "r-col", "r-pu", "r-ju", "r-neon", "r-rain", "r-fog", "r-refl"].forEach(function (id) {
     $(id).dispatchEvent(new Event("input"));
   });
+  [].forEach.call($("seg-smooth").querySelectorAll("button"), function (x) { x.classList.toggle("on", Number(x.dataset.v) === state.smooth); });
   [].forEach.call(palWrap.querySelectorAll("button"), function (x, i) { x.classList.toggle("on", PALETTES[i].id === state.pal); });
   animate();
   toast("已复原初始值");
